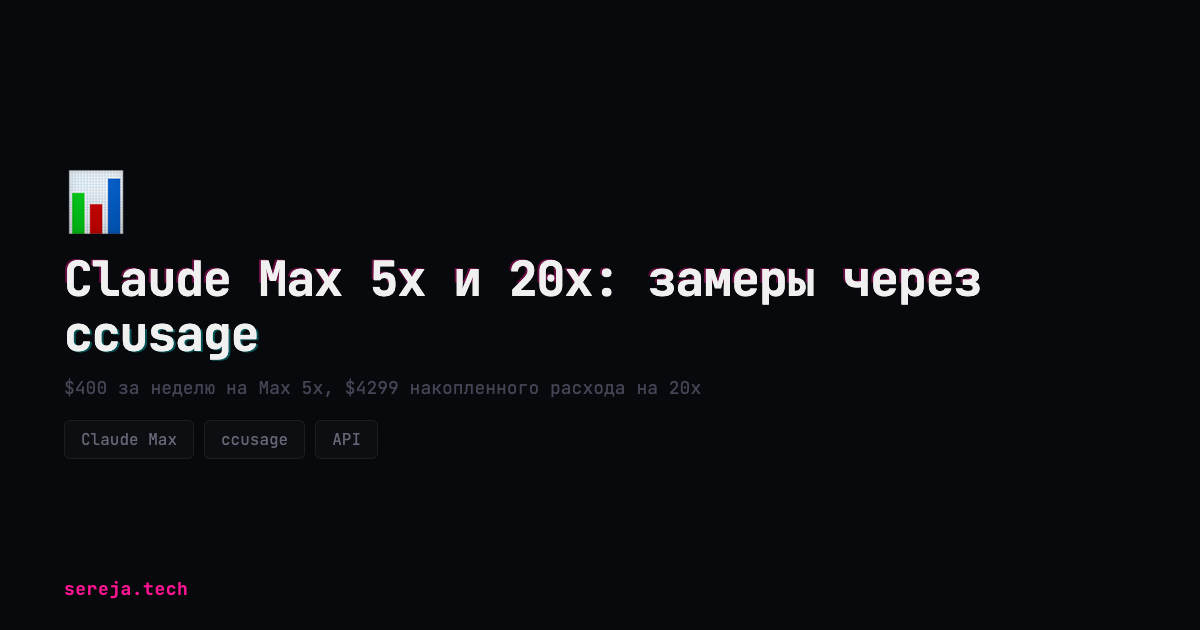
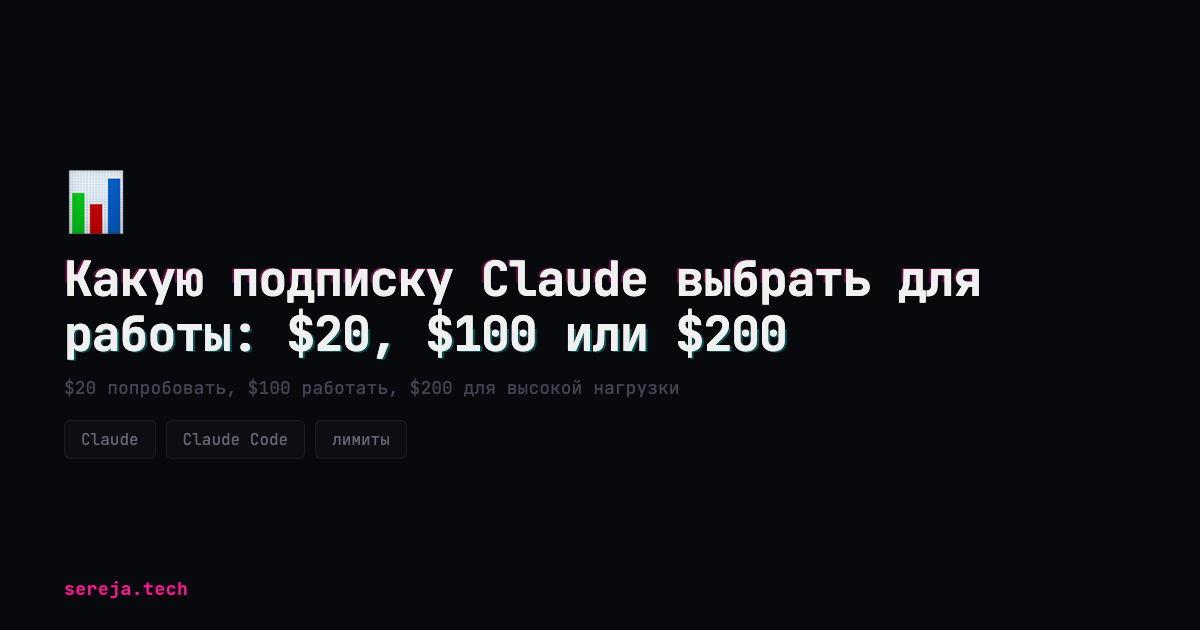
fix(blog): clarify Claude subscription limits

diff --git a/content/blog/claude-max-real-limits-api-cost.md b/content/blog/claude-max-real-limits-api-cost.md
@@ -1,91 +1,107 @@
 ---
-title: "Claude Max 5x и 20x: замеры через ccusage"
+title: "Какую подписку Claude выбрать для работы: $20, $100 или $200"
 date: 2026-08-05
-description: "Мои замеры Claude Max 5x и 20x через ccusage: $400 за неделю, $1800 за месяц и отдельные дни свыше $400. Как выбрать тариф."
-tags: ["claude-max", "claude-code", "ccusage", "anthropic", "вайбкодинг"]
+description: "Сравниваю Claude Pro за $20, Max 5x за $100 и Max 20x за $200: реальные лимиты, объём задач и какой тариф нужен для работы."
+tags: ["claude", "claude-max", "claude-code", "anthropic", "вайбкодинг"]
 image: "/images/blog/claude-max-real-limits-api-cost-preview.png"
 cta: none
 cta_reason: "Статья решает нейтральную задачу выбора тарифа; продуктовая связка отсутствует."
 ---
 
-Claude Max я оцениваю через API-эквивалент своего реального потребления. В моих логах Max 5x за $100 показывал около $400 за неделю и около $1800 за месяц в другом периоде. На Max 20x недельный счётчик однажды дошёл до 72% за полтора дня.
+Коротко: Claude Pro за $20 хватает, чтобы попробовать Claude Code. Max 5x за $100 подходит для регулярной работы. Max 20x за $200 нужен при ежедневной высокой нагрузке.
 
-API-эквивалент показывает, сколько те же токены стоили бы при оплате через API. Anthropic даёт доступ в рамках динамических лимитов подписки. Фиксированную недельную сумму в долларах компания не публикует. Поэтому выбор тарифа лучше делать по своим логам за полную неделю: сколько API-долларов набралось, как быстро заполнились счётчики и мешал ли лимит работе.
+Я использовал все три уровня. Для вайбкодинга рабочий тариф у меня начинается со $100. Подписка за $20 заканчивается слишком быстро. За $200 лимитов больше, но безлимита там тоже нет.
 
-## Как устроены официальные лимиты
+| Подписка | Объём относительно Pro | Для чего подходит |
+|---|---:|---|
+| Pro, $20 | 1x | Познакомиться с Claude Code |
+| Max 5x, $100 | 5x | Регулярно работать над проектами |
+| Max 20x, $200 | 20x | Работать каждый день с высокой нагрузкой |
 
-У Anthropic есть два тарифа Max: [5x за $100 в месяц и 20x за $200](https://support.claude.com/en/articles/11049741-what-is-the-max-plan). Множители показывают объём использования относительно Pro в рамках сессии.
+В примерах ниже агент читает файлы, ищет ошибки, вносит правки и запускает тесты. Чтение файлов и вызовы инструментов создают основную часть расхода.
 
-Дополнительно действуют два недельных счётчика:
+## Какие лимиты входят в подписку
 
-- общий лимит для всех моделей;
-- отдельный лимит Sonnet.
+[Claude Pro стоит $20 в месяц](https://support.claude.com/en/articles/8325606-what-is-the-pro-plan). В него входят Claude в браузере, Claude Code и Cowork. Их расход складывается в общий лимит.
 
-Claude в браузере, Desktop и Code расходуют общий пул. На скорость влияют модель, длина контекста, режим усилия, инструменты и характер задачи. Поэтому сравнивать пользователей только по тарифу нет смысла.
+У подписки два основных ограничения: пятичасовое и недельное. Anthropic также вводит отдельные лимиты для моделей и функций.
 
-На момент публикации действует [временное увеличение недельных лимитов Claude Code на 50%](https://support.claude.com/en/articles/15910845-claude-code-may-august-2026-weekly-limits-promotion). Акция заканчивается 19 августа 2026 года. Пятичасовой лимит остаётся прежним. Замеры, сделанные во время акции, стоит хранить с датой: после 19 августа база сравнения изменится.
+[Max 5x и Max 20x стоят $100 и $200](https://support.claude.com/en/articles/11049741-what-is-the-max-plan). В пятичасовом окне они дают в пять и двадцать раз больше Pro.
 
-## Что показал мой Max 5x
+20x описывает объём внутри пятичасового окна. Недельный расход зависит от модели, проекта, длины разговора и количества прочитанных файлов.
 
-Я давно отвечаю на вопросы о лимитах через [`ccusage`](https://ccusage.com/guide/cost-modes). Инструмент читает локальную историю Claude Code и показывает стоимость в выбранном режиме расчёта.
+Anthropic не публикует недельную квоту в токенах. Поэтому я смотрю на свои логи.
 
-Один из коротких замеров показал [$40,87 за пятичасовое окно](https://t.me/vibecod3rs/30863). Конкретное окно, конкретная нагрузка.
+[До 19 августа 2026 года недельный лимит Claude Code увеличен на 50%](https://support.claude.com/en/articles/15910845-claude-code-may-august-2026-weekly-limits-promotion).
 
-![Пятичасовой замер Claude Max 5x в ccusage](/images/blog/claude-max-api-cost-5x.webp)
+Пятичасовой лимит остался прежним. Все недельные замеры ниже сделаны до этого повышения.
 
-На недельном горизонте у меня получалось [около $400 API-эквивалента](https://t.me/vibecod3rs/38196). Это отдельный исторический замер недельного лимита.
+## Сколько токенов съедает работа
 
-В другом периоде я оценивал свою нагрузку [примерно в $1800 за месяц](https://t.me/vibecod3rs/45134). Складывать эти цифры между собой смысла нет: у них разные даты и профиль задач.
+Токенами считаются промпты, ответы, прочитанные файлы и результаты инструментов. Чем дольше живёт сессия, тем больше старого контекста Claude повторно обрабатывает на каждом шаге.
 
-По моему опыту, Max 5x за $100 остаётся рабочим тарифом для индивидуальной нагрузки. В одном замере в недельный лимит поместилось около $400 по API.
+Я разбирал [22 своих сессии Claude Code](https://sereja.tech/blog/claude-code-token-optimization/). За один активный день четыре проекта и 920 вызовов инструментов набрали около 616 тысяч токенов.
 
-## Что показал Max 20x
+Это мои старые логи. Они показывают разницу между задачами без привязки к квоте тарифа.
 
-В одном периоде на Max 20x недельный счётчик дошёл до [72% примерно за полтора дня](https://t.me/vibecod3rs/57733). Этот процент фиксирует только полтора дня: расход меняется вместе с задачами, моделями и длиной контекста.
+| Кейс | Пример работы | Реальный расход |
+|---|---|---:|
+| Один файл | Проверить JWT в одном указанном файле | около 3k токенов |
+| Целый проект | Проверить проект на баги без точного указания места | 50-70k токенов |
+| Рабочий день | 22 сессии в четырёх проектах | около 616k токенов |
 
-В другом скриншоте `ccusage` показывал [$4299,82 накопленного API-эквивалента](https://t.me/vibecod3rs/57739). Длина периода на скриншоте отсутствует, поэтому сумма описывает накопленный итог без недельной или месячной привязки.
+Проверка одного указанного файла заняла около 3k токенов, поиск багов по всему проекту занял 50-70k. Во втором случае агент сделал 15-20 вызовов чтения.
 
-![Накопленный API-эквивалент Claude Max 20x](/images/blog/claude-max-api-cost-20x.webp)
+Один точечный вопрос к известному файлу может уложиться в несколько тысяч токенов. Когда агент сначала ищет место ошибки по всему проекту, расход растёт на порядок. В большом рабочем дне таких проходов десятки.
 
-В два самостоятельных дня `ccusage` показал [$418,86 и $438,68](https://t.me/vibecod3rs/75427). Это дневной API-эквивалент моей нагрузки в конкретные даты. Среднее значение по месяцу требует отдельного замера.
+В моём разборе 95,5% контекста приходилось на результаты инструментов. Сильнее всего расход рос из-за чтения файлов и повторной обработки старого контекста.
 
-![Два дневных замера Claude Max в ccusage](/images/blog/claude-max-api-cost-daily.webp)
+Для грубой оценки я сначала смотрю на масштаб: агент откроет один файл, прочитает весь проект или будет работать в нескольких проектах весь день. Количество сообщений само по себе мало говорит о расходе.
 
-Мой критерий для Max 20x: недельный лимит регулярно заканчивается в начале цикла и прерывает работу.
+У презентации нет фиксированного расхода. Число слайдов, объём исходных материалов и количество правок каждый раз разные.
 
-## Почему API-эквивалент у всех разный
+[Claude Design расходует тот же общий лимит](https://support.claude.com/en/articles/14604416-get-started-with-claude-design), что Claude и Claude Code.
 
-`ccusage` поддерживает несколько режимов расчёта стоимости.
+Сложные проекты, большие кодовые базы и многочисленные итерации быстрее расходуют общий лимит.
 
-В режиме `auto` инструмент берёт записанный `costUSD`, когда он есть, и рассчитывает стоимость по токенам для остальных записей. Режим `calculate` полностью пересчитывает историю по количеству токенов и текущей таблице цен. Режим `display` показывает только стоимость, уже записанную в логах.
+Цифра «презентация стоит миллион токенов» имеет смысл только вместе с логом конкретной работы.
 
-Для сравнения недель полезно выбрать один режим и сохранять его вместе с результатом. Историческая сумма в `calculate` может измениться после обновления цен или поддержки новой модели.
+## Что такое ccusage и что означают доллары
 
-На итог особенно влияют:
+[`ccusage`](https://ccusage.com/guide/cost-modes) читает локальные логи Claude Code. Программа складывает входные, выходные и кэшированные токены и показывает, сколько такая же работа стоила бы через API.
 
-- доля входных и выходных токенов;
-- использование кэша;
-- выбранная модель;
-- длина контекста;
-- количество параллельных сессий;
-- задачи с активным использованием инструментов.
+Например, сумма $400 означает: при прямой оплате API те же токены стоили бы примерно $400. Подписка при этом остаётся подпиской за $100. Дополнительного списания из-за отчёта нет.
 
-[Внешний замер Botfarm](https://botfarm.run/blog/claude-max-true-price/) дал около $523 в неделю для Max 5x и около $1100 для Max 20x. Автор провёл 80 задач и 497 стадий, собрал около 3500 снимков использования. Примерно 95% нагрузки пришлось на Opus 4.6. Практическое соотношение получилось около 2,1 раза.
+Так логи разных дней можно сравнивать в API-долларах.
 
-Оценка Botfarm для Max 5x близка к моему недельному замеру около $400. Разница объяснима: нагрузка, модели и период были другими. Названия 5x и 20x сами по себе не дают денежного прогноза.
+`ccusage` видит только локальные сессии Claude Code. Работа в браузере, Claude Design и часть внешних инструментов в такой отчёт не попадают.
 
-## Как я бы сравнил тарифы за неделю
+## На сколько хватало Max 5x за $100
 
-Для первого среза достаточно одной полной недели. В своём недельном логе я держу тариф, дату начала цикла, действующую промоакцию и один режим `ccusage`: `auto`, `calculate` или `display`. Каждый день сохраняю API-эквивалент, процент недельного лимита и модель. Отдельно фиксирую моменты, когда пятичасовой или недельный лимит повлиял на работу. В конце недели сравниваю сумму, скорость расхода и количество вынужденных пауз.
+В одном пятичасовом периоде `ccusage` показал [$40,87 по ценам API](https://t.me/vibecod3rs/30863).
 
-Полезная единица сравнения выглядит так: «Max 5x, неделя после 19 августа, `ccusage auto`, преимущественно Opus, общий недельный лимит закончился на пятый день». Такой результат можно сопоставить с другой неделей и другим тарифом.
+![Пятичасовой расход Claude Max 5x](/images/blog/claude-max-api-cost-5x.webp)
 
-Для решения о смене тарифа я бы провёл две полные недели после завершения временного бонуса. Так отдельный день с аномально высокой нагрузкой меньше повлияет на вывод.
+За полную неделю в лимит у меня помещалось [около $400 такой работы](https://t.me/vibecod3rs/38196).
 
-## Как выбрать между Max 5x и Max 20x
+В моём режиме Max 5x хватало для регулярной работы над проектами. Расход всё равно приходилось контролировать, особенно при частом использовании Opus и длинных сессиях.
 
-Я бы начинал с Max 5x, если недельного лимита хватает на основной рабочий цикл. В моём замере тариф за $100 покрыл около $400 API-эквивалента за неделю.
+## На сколько хватает Max 20x за $200
 
-Max 20x имеет смысл, когда недельный лимит заканчивается рано несколько циклов подряд. Мой публичный замер показал 72% за полтора дня. Для меня доплата $100 оправдана, когда такой темп регулярно останавливает рабочие задачи.
+В моём интенсивном периоде на Max 20x [72% недельного лимита ушло за полтора дня](https://t.me/vibecod3rs/57733).
 
-Я смотрю на день недели, когда лимит начинает мешать. API-доллары показывают, сколько те же токены стоили бы по розничному прайсу. Скорость заполнения лимита отвечает на главный вопрос: хватает ли тарифа моему рабочему процессу.
+Даже Max 20x у меня закончился бы за несколько дней при таком темпе. Параллельные агенты, Opus и длинный контекст ускоряют расход.
+
+[Внешний тест Botfarm](https://botfarm.run/blog/claude-max-true-price/) по неполной неделе оценил полную недельную ёмкость примерно в $1100 для Max 20x и $523 для Max 5x. Автор называет эти оценки нижней границей.
+
+В тесте 95% работы шло через Opus 4.6. Отношение недельного объёма вышло около 2,1 раза. Официальные 5x и 20x описывают пятичасовое окно, поэтому недельная разница может быть меньше четырёх раз.
+
+## Какой тариф выбрать
+
+По моему опыту, за $20 можно познакомиться с Claude Code. Отдельного замера Pro в токенах или API-долларах у меня нет, поэтому точное число задач я не обещаю.
+
+У меня регулярная работа начинается с Max 5x за $100. В историческом замере за неделю в него помещалось около $400 по ценам API.
+
+Max 20x за $200 нужен, когда Max 5x тормозит работу почти каждую неделю и дополнительный лимит точно будет занят.
+
+Мой короткий выбор: $20 для знакомства, $100 для работы, $200 для интенсивной работы.

diff --git a/README.md b/README.md
@@ -36,7 +36,7 @@
 
 | Дата | Статья |
 |------|--------|
-| 2026-08-05 | [Claude Max 5x и 20x: замеры через ccusage](https://sereja.tech/blog/claude-max-real-limits-api-cost/) |
+| 2026-08-05 | [Какую подписку Claude выбрать для работы: $20, $100 или $200](https://sereja.tech/blog/claude-max-real-limits-api-cost/) |
 | 2026-08-04 | [Как подключить подписку Anthropic к Hermes](https://sereja.tech/blog/claude-max-hermes-telegram/) |
 | 2026-08-03 | [Почему агент не может выбрать лучший код](https://sereja.tech/blog/best-practices-code/) |
 | 2026-07-18 | [Kimi K3 за 1:47: сильный агент с одной проблемой](https://sereja.tech/blog/kimi-k3-guide/) |
